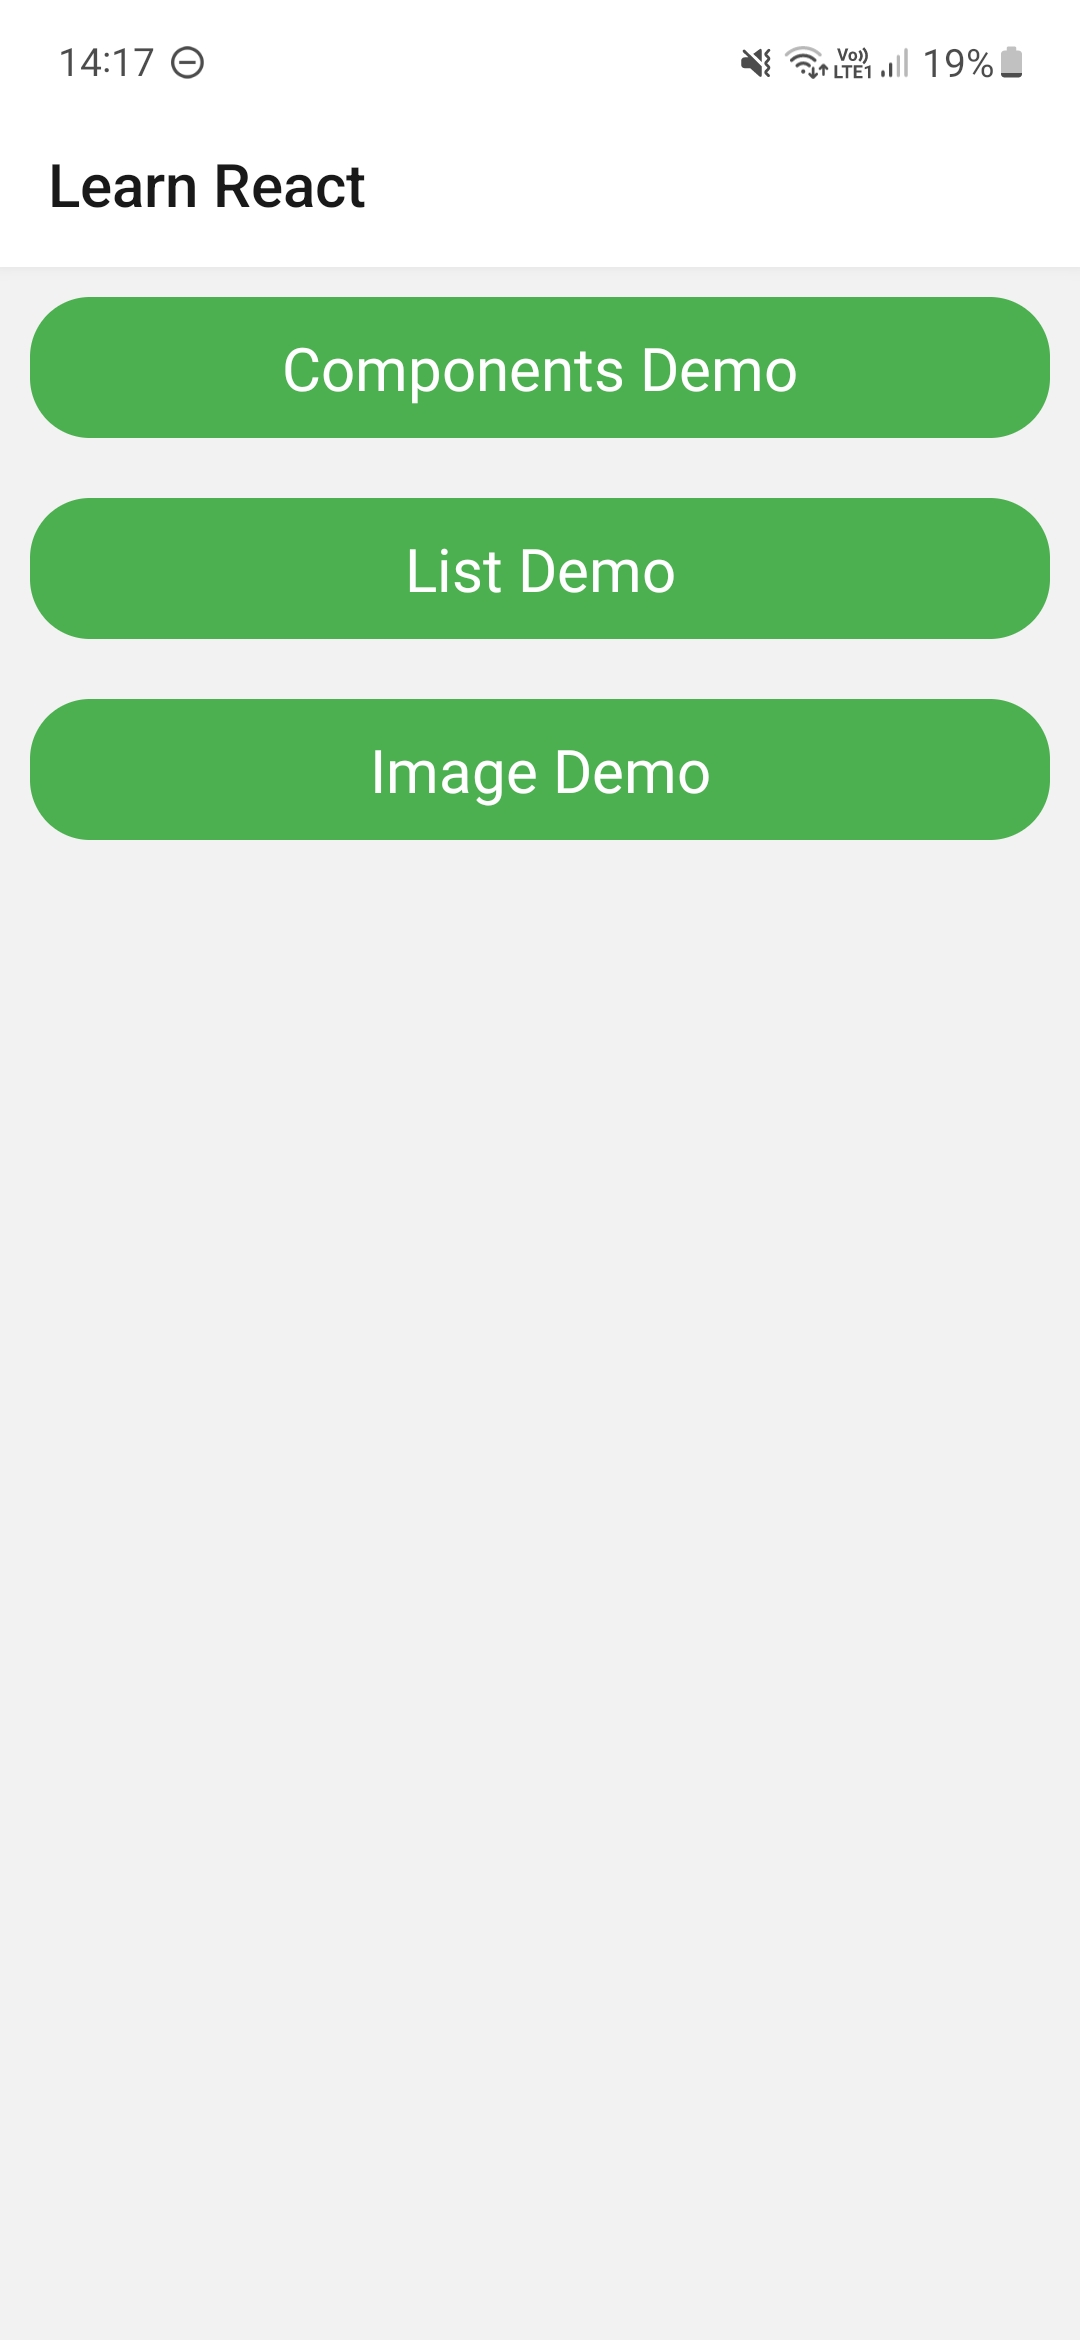
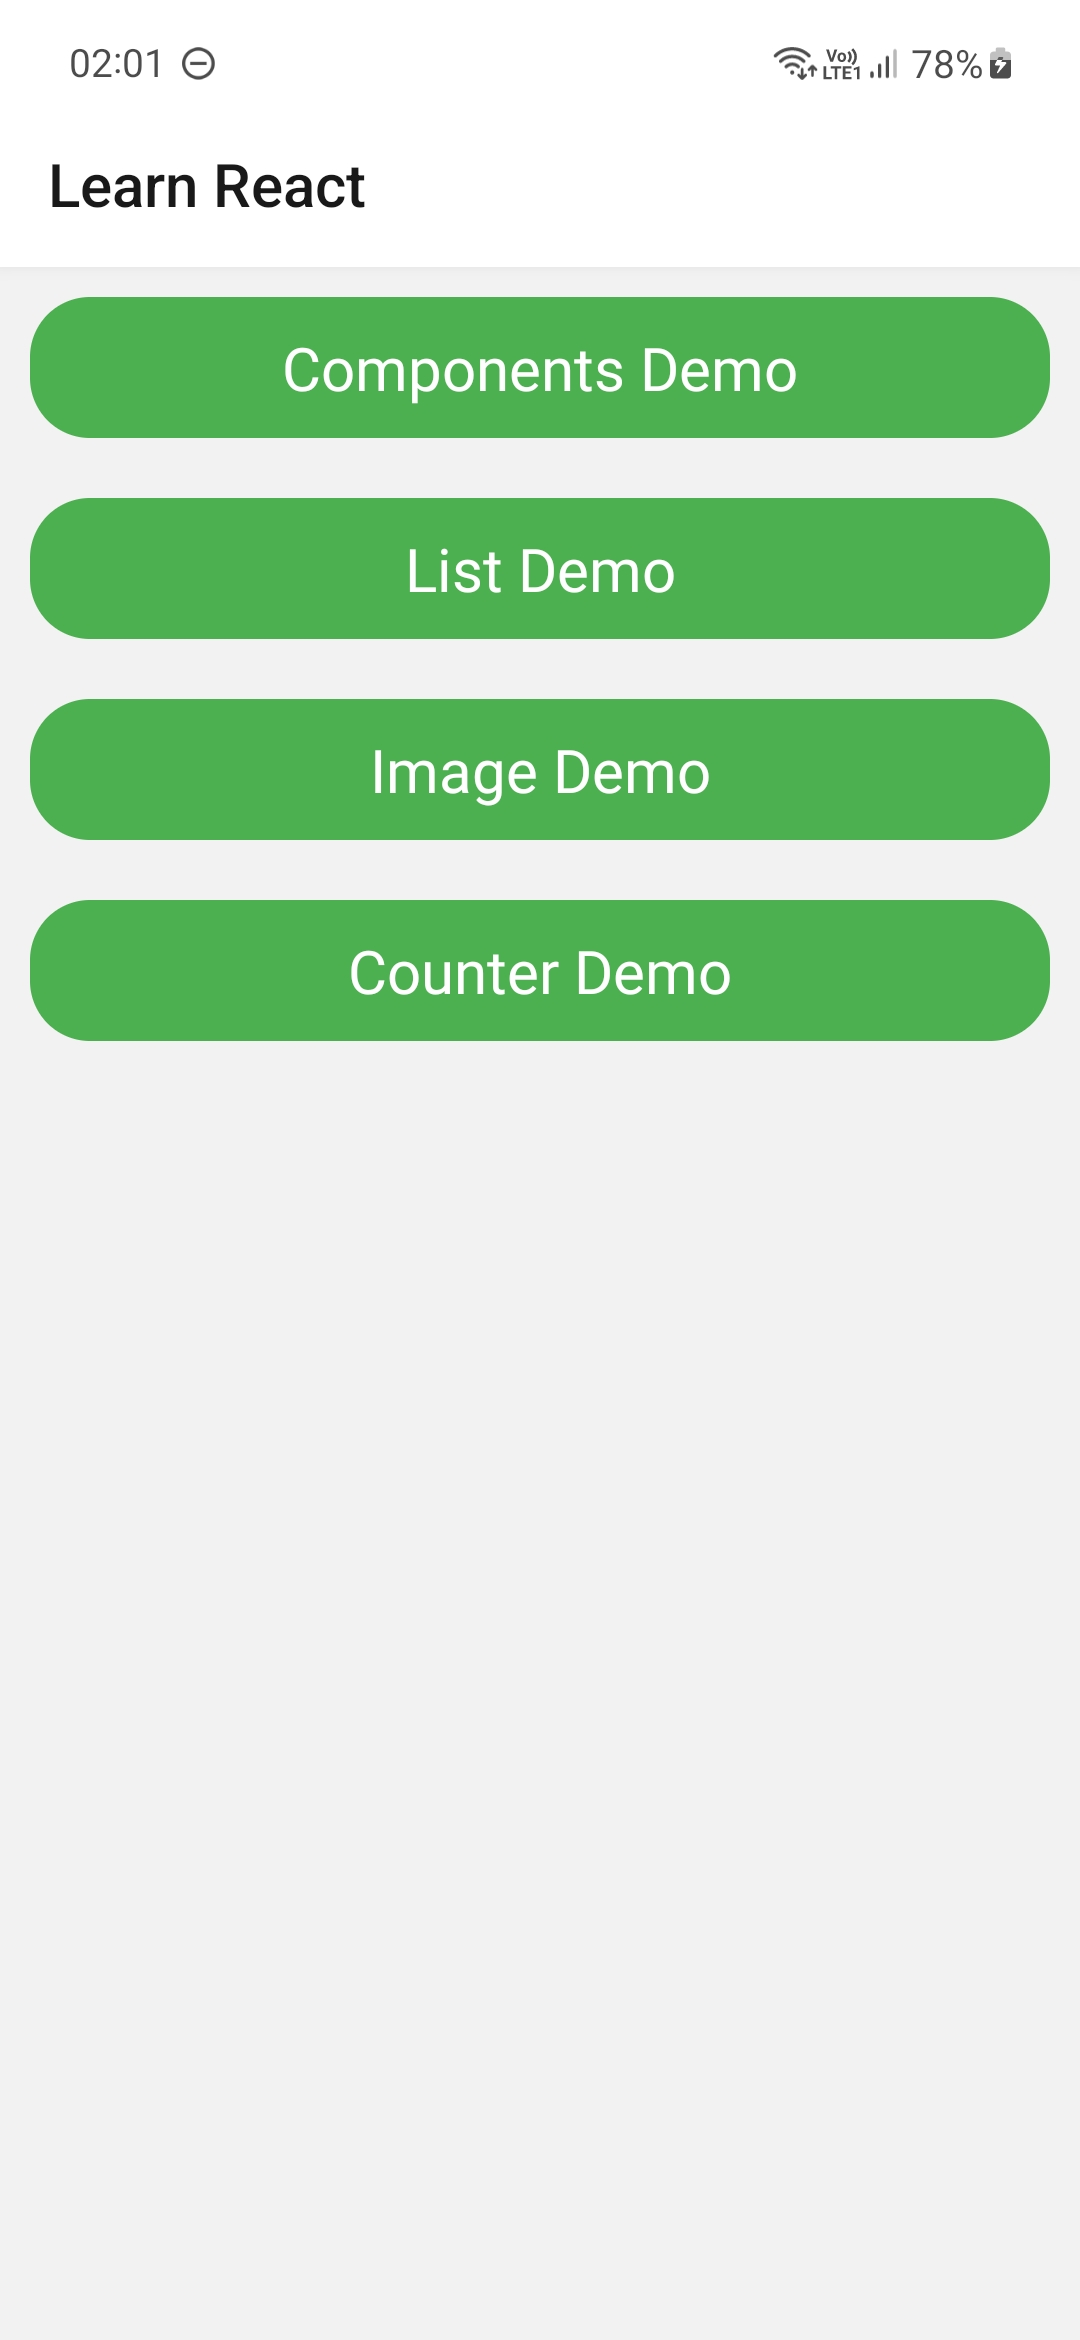
Update README

Changed region(s): [[0.0306, 0.3744, 0.9778, 0.4679], [0.6722, 0.0, 0.9472, 0.0312], [0.0611, 0.0, 0.2139, 0.0312]]

diff --git a/README.md b/README.md
@@ -4,7 +4,7 @@ This repository is dedicated to tracking my progress and learning journey in mas
 
 ## Resources
 
-* [The Complete React Native + Hooks Course by Stephen Grider](https://www.udemy.com/course/the-complete-react-native-and-redux-course)  ![](https://geps.dev/progress/6?dangerColor=8BC34A&warningColor=8BC34A&successColor=8BC34A)
+* [The Complete React Native + Hooks Course by Stephen Grider](https://www.udemy.com/course/the-complete-react-native-and-redux-course)  ![](https://geps.dev/progress/9?dangerColor=8BC34A&warningColor=8BC34A&successColor=8BC34A)
 
 ## Screenshots
 
@@ -16,6 +16,7 @@ I will add new screenshots as I create new practice apps.
     <th>Home Screen</th>
     <th>List Screen</th>
     <th>Image Screen</th>
+    <th>Counter Screen</th>
   </tr>
 </thead>
 <tbody>
@@ -28,6 +29,10 @@ I will add new screenshots as I create new practice apps.
     <td>
     <img src="screenshots/02-image-screen-1.jpg" alt="list" width="150">
     <img src="screenshots/02-image-screen-2.jpg" alt="list" width="150">
+    </td>
+    <td>
+    <img src="screenshots/03-counter-screen-1.jpg" alt="list" width="150">
+    <img src="screenshots/03-counter-screen-2.jpg" alt="list" width="150">
     </td>
   </tr>
 </tbody>
